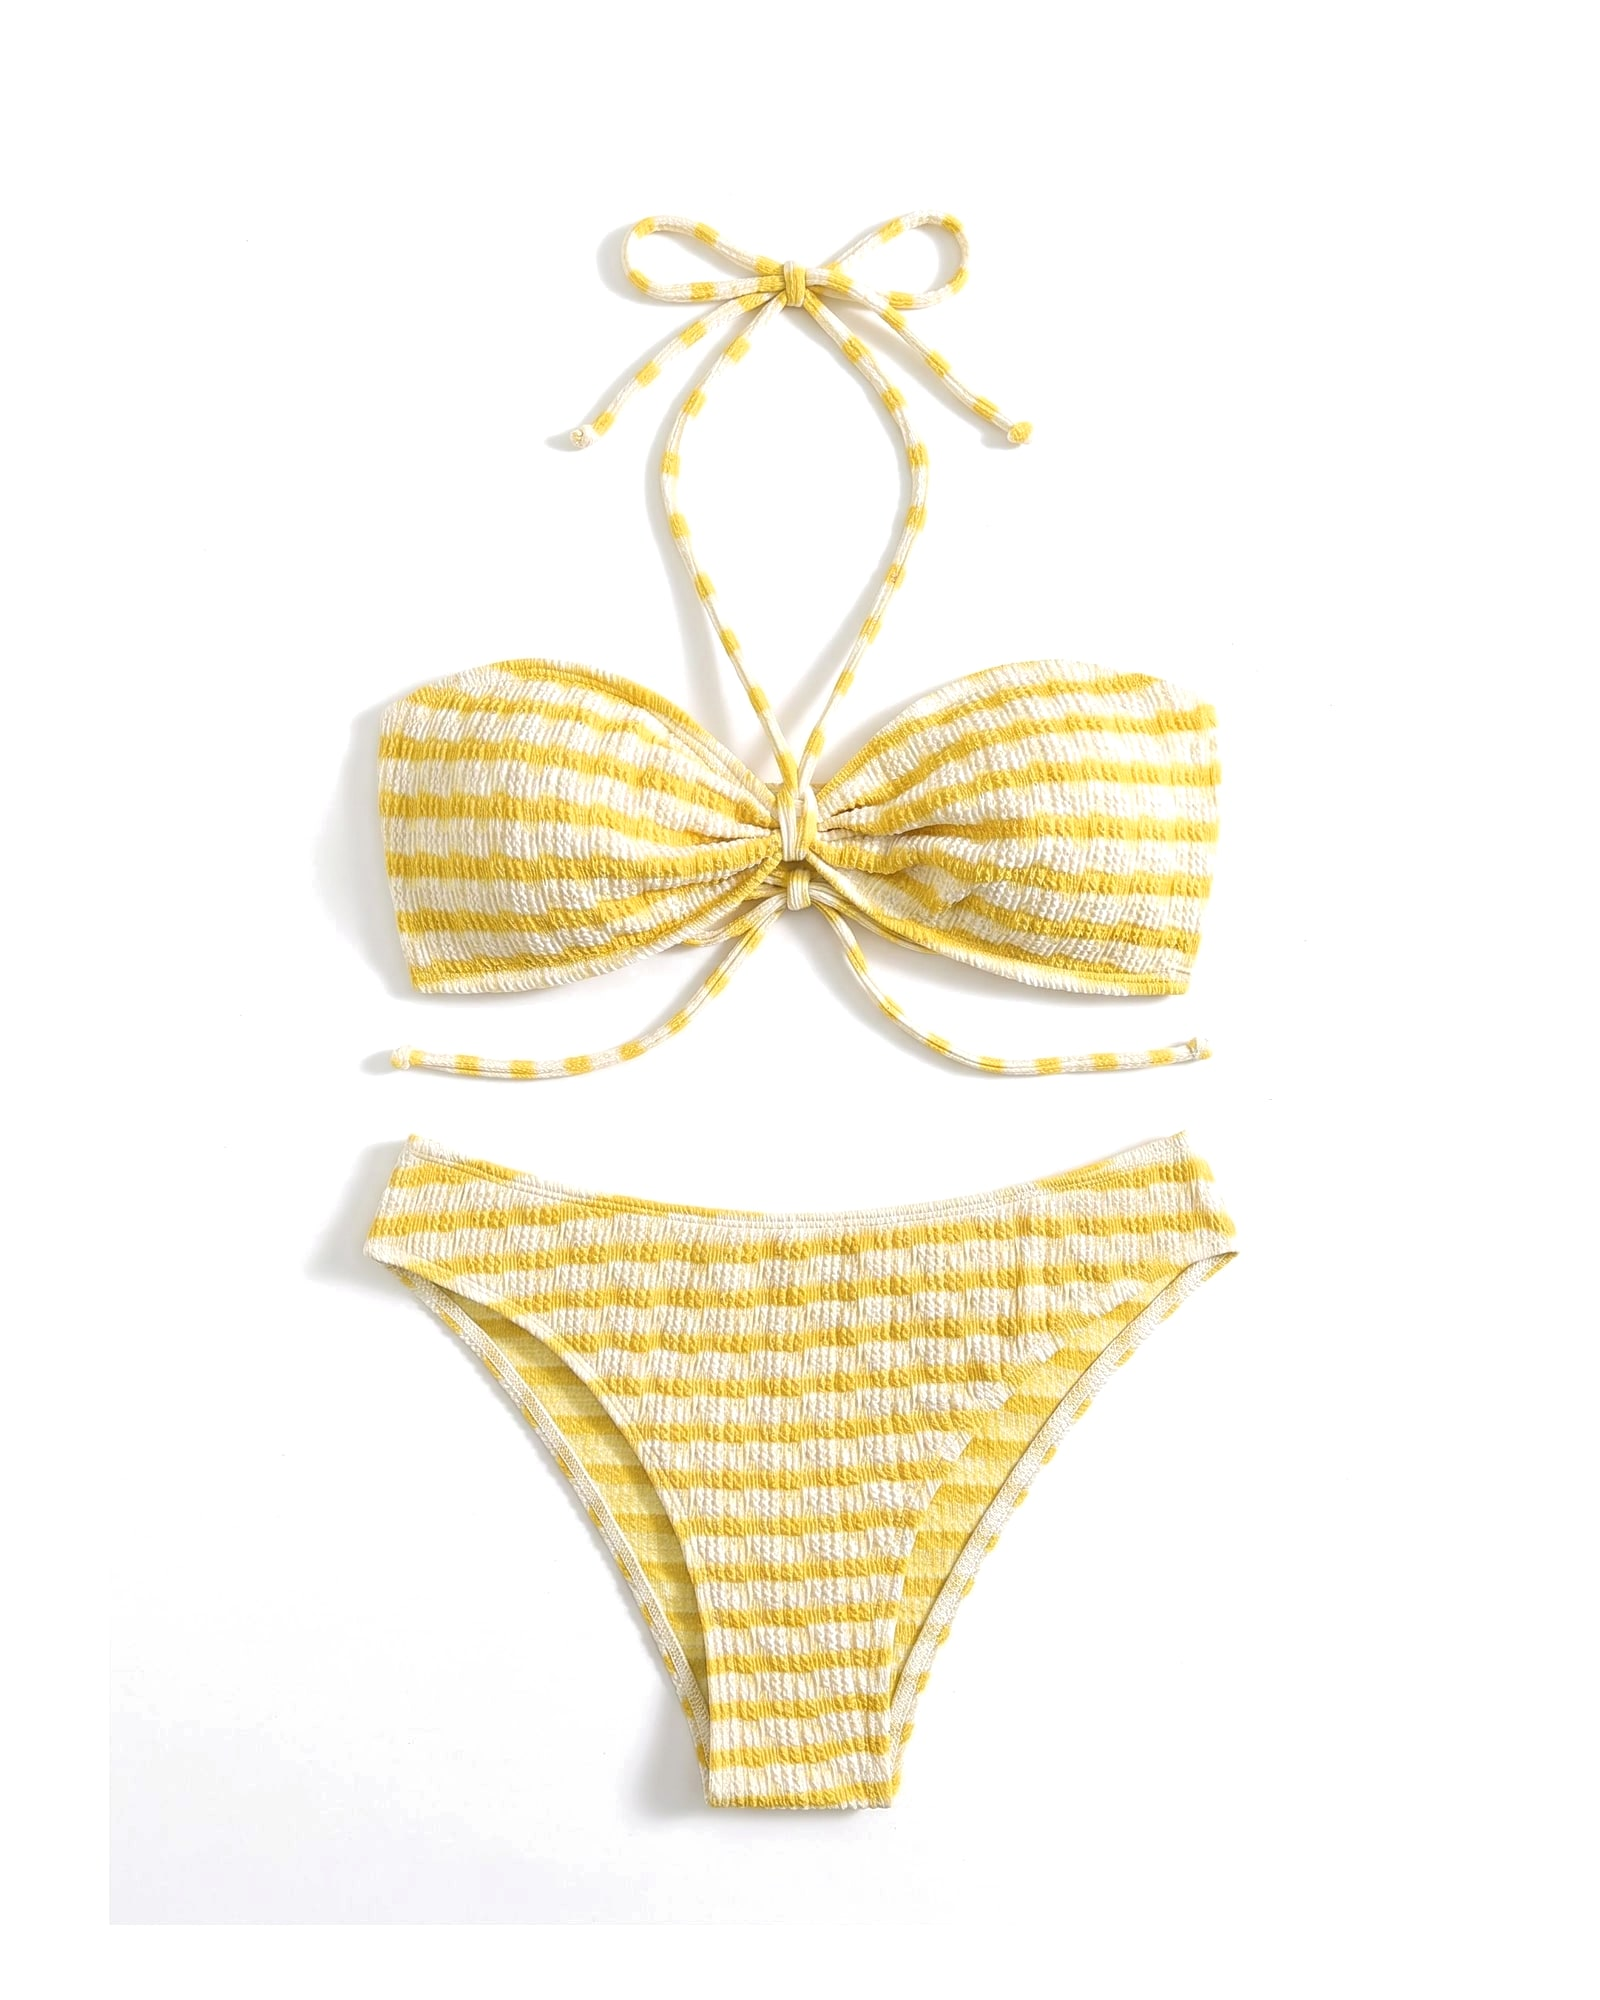
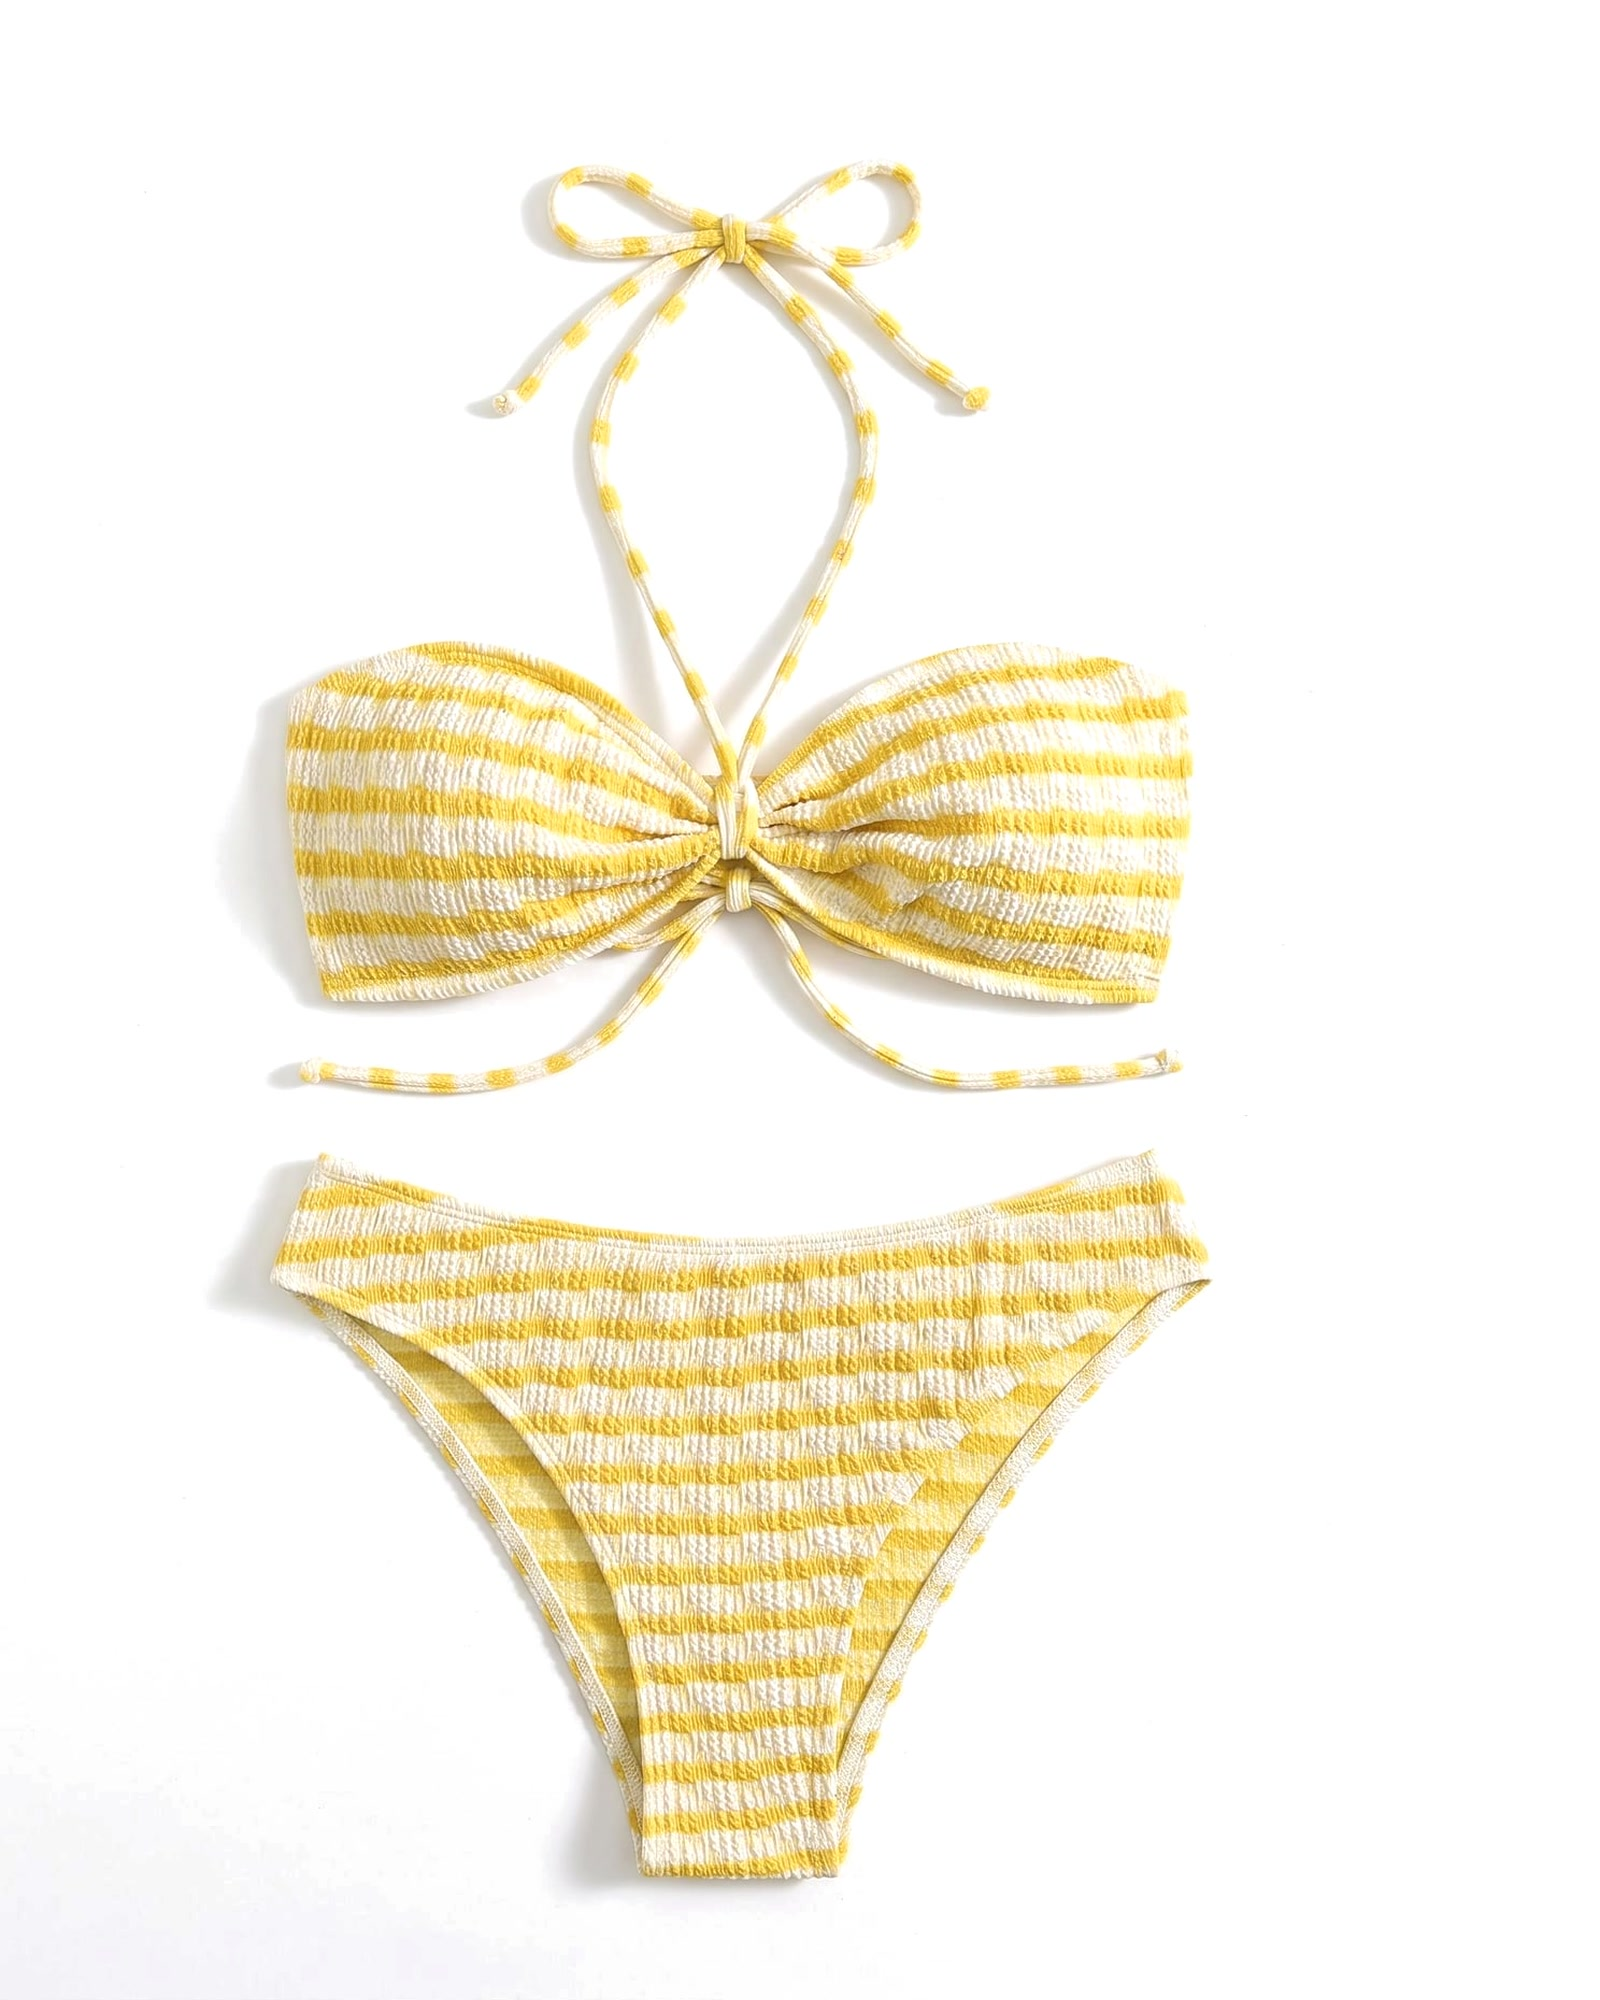
Rayas-Bikini: harte Kanten des Fotohintergrunds links und unten entfernt
Gleiches Problem wie beim Duo-Bikini (weisser Streifen neben dem grauen
Fotogrund), auf 4:5 zugeschnitten und vergrössert; IMAGE_VERSION erneut
hochgezählt.

Changed region(s): [[0.125, 0.062, 0.7812, 0.961]]

diff --git a/src/app/feed/google.xml/route.ts b/src/app/feed/google.xml/route.ts
@@ -65,7 +65,7 @@ function absolute(path: string): string {
  * austauscht oder bearbeitet, erhöht diesen Wert — dann lädt Google alle
  * Bilder beim nächsten Feed-Abruf frisch.
  */
-const IMAGE_VERSION = "2026-10-18";
+const IMAGE_VERSION = "2026-10-18b";
 const imageUrl = (path: string) => `${absolute(path)}?v=${IMAGE_VERSION}`;
 
 const OVERRIDES = imageOverrides as Record<string, Record<string, string>>;
